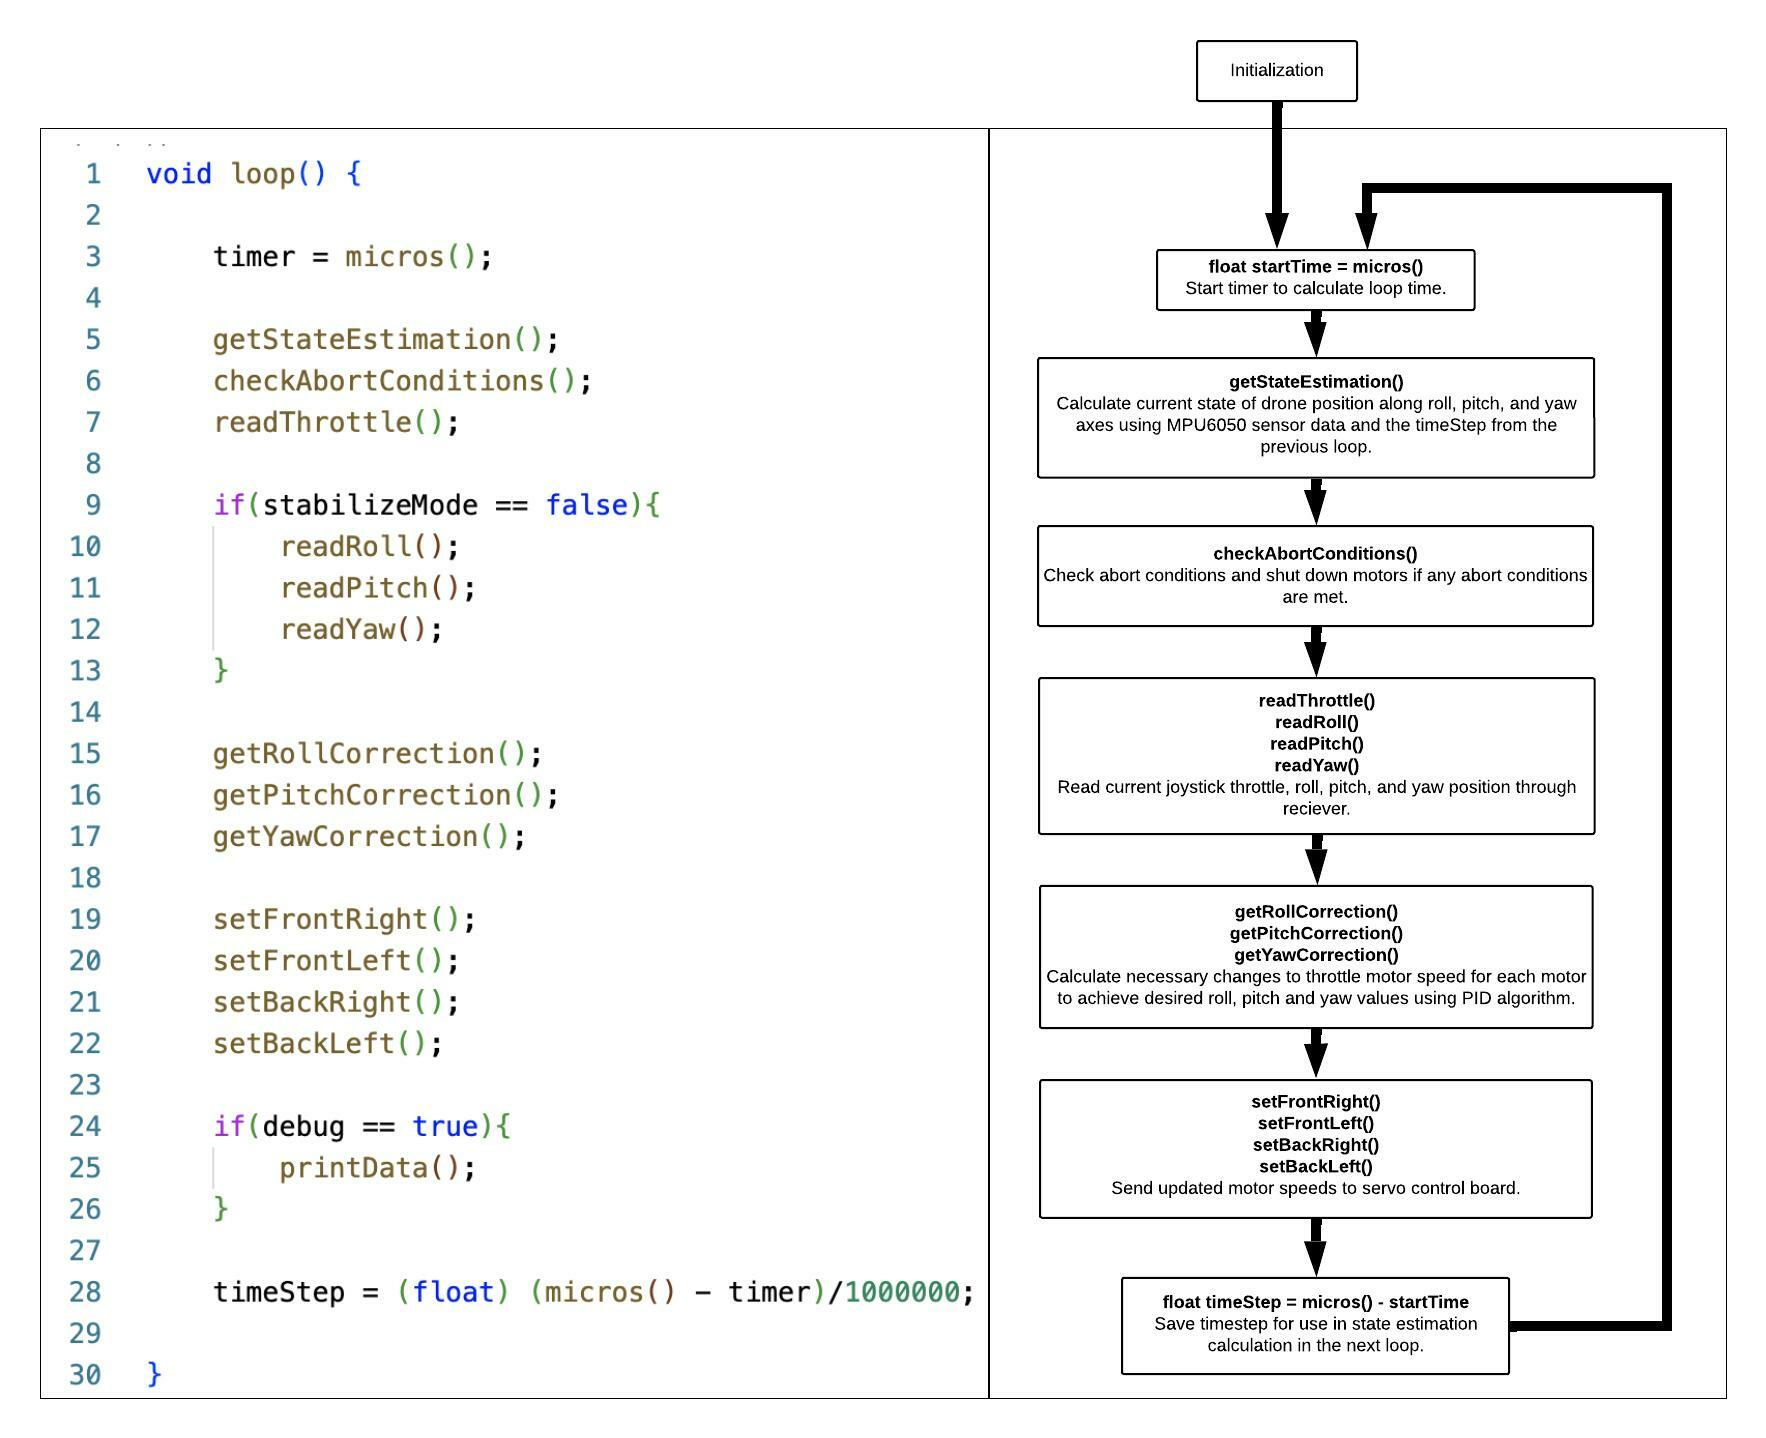
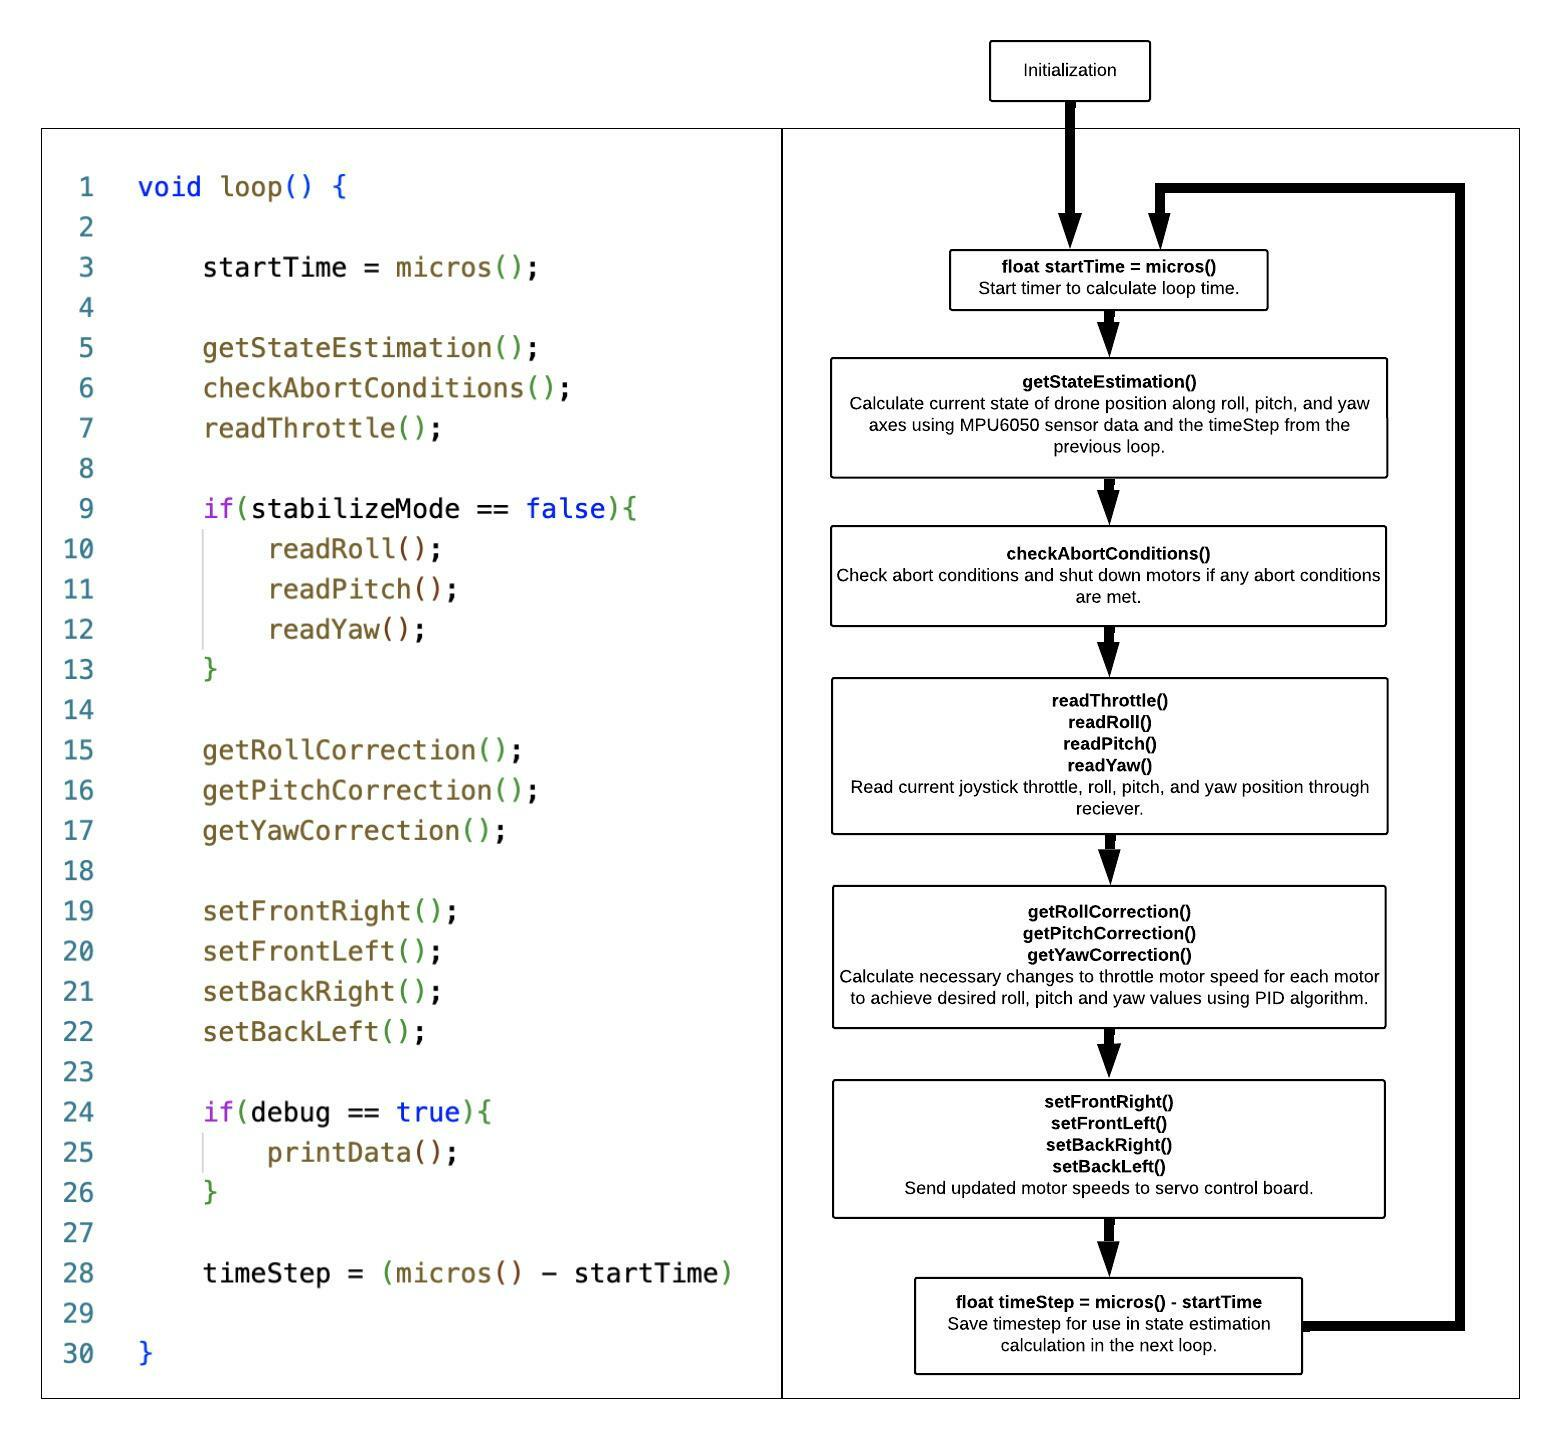
readme

diff --git a/README.md b/README.md
@@ -7,7 +7,7 @@ The Osprey Drone Mark I with Osprey Flight Controller Version 1.0
 </p>
 
 <h5 align="center">
-An Arduino based quadcopter build with personally developed flight control software. 
+An Arduino based quadcopter build with personally developed flight control software
 </h5>
 
 ### Features:
@@ -116,29 +116,15 @@ The Osprey Flight Controller incorporates gyroscope and accelerometer data from 
 <b>An MPU6050 inertial measurement unit.</b>
 </p>
 
-The MPU6050 accelerometer measures linear acceleration along the X, Y, and Z axes. The angular position is calculated from each accelerometer linear acceleration reading using Euler angle based trigonometry. Korneliusz Jarzębski's MPU6050 library was used to calculate the accelerometer and gyroscope based angular position calculations and these calculations were combined using a low pass filter for the accelerometer based state estimation and a high pass filter for the gyroscope based state estimation. 
 
-### Component Timing
-The flight controller relies on several different hardware components as well as software to do its job. It's important to understand the time it takes to complete each part of the loop so that optimization efforts can focus on the biggest bottlenecks.
+The MPU6050 accelerometer measures linear acceleration along the X, Y, and Z axes. The angular position is calculated from each accelerometer linear acceleration reading using Euler angle based trigonometry. Only roll and pitch can be calculated with this method. This calculation relies on the vertical acceleration being -1G and assumes there is no other linear acceleration on the X and Y axes so during flight these calculations are often innacurate but at rest they will recenter any gyroscope drift. Kornelius Jarzębski's MPU6050 library was used to calculate the accelerometer and gyroscope based angular position calculations and these calculations were combined using a low pass filter for the accelerometer based state estimation and a high pass filter for the gyroscope based state estimation. 
 
-The timestep is often kept constant when integrating sensor data with respect to time. I chose to vary the time step to avoid using the delay() function which is a blocking function and slowed the overall loop time too much. The best solution would be to handle integration of the sensor data on a separate microcontroller to allow for a constant timestep without slowing down the entire flight controller. 
+### Flight Controller Timing
+The flight controller relies on several different hardware components as well as software to do its job. It's important to understand the time it takes to complete each part of the loop so that optimization efforts can focus on the biggest bottlenecks. Flight controller speed is crucial for stability. A slower flight controller loop time negatively affects stability because it decreases the accuracy of the state estimation and also does not give the motors as much time to adjust their speed. The default operating frequency for Arduino Uno R3 is 16 MHz. The average timestep (total loop time) of the Osprey Flight Controlller V1.0 is approximately 20Hz in Stabilize Mode. This is unfortunately far too slow to allow for the stability required to film or maneuver. Modern F4 flight controllers allow for incredibly smooth and aggresssive flight with loop times of 32KHz which is three orders of magnitude faster than the Osprey Flight Controller V1.0. 
 
-The default operating frequency for Arduino Uno R3 is 16 MHz. The average timestep (total loop time) of the Osprey Flight Controlller V1.0 is approximately 20Hz in Stabilize Mode. This is unfortunately far too slow to allow for the stability required to film or maneuver. Modern F4 flight controllers have loop times of 32KHz which is three orders of magnitude faster than the Osprey Flight Controller V1.0. 
+The MPU6050 has a maximum sample rate north of 1Hz but in this project the MPU6050 is only sampled once every loop. The timestep is often kept constant when integrating sensor data with respect to time. I chose to vary the time step to avoid using the delay() function which is a blocking function and slowed the overall loop time too much. The best solution would be to handle integration of the sensor data on a separate microcontroller to allow for a constant timestep without slowing down other flight controller tasks. 
 
-A slower flight controller loop time negatively affects stability because it decreases the accuracy of the state estimation and also does not give the motors as much time to adjust their speed. 
-
-the internal clock of the servo control board can be set to operate at a range of refresh rates from ______ to ______
-
-The SimonK ESCs are capabale of a 400Hz refresh rate and the motors are capable of responding to this refresh rate.
-
-How often do reciever pulses come in?
-What is the min and max pulse length and timeout time of the reciever and pulseIn() function?
-
-What is the MPU6050 sampling frequency
-The MPU6050 uses an interrupt 
-The MPU6050 samples onyl once a loop but you want it to sample as fast as possible and just use the current estimate in the control loop as fast as the loop allows. Sample the gyro as fast as the hardware allows and execute the control loop every nth gyro sampling.
-
-https://www.bestonlinedrones.com/should-your-miniquad-have-the-newest-flight-controller/
+The internal clock of the servo control board can be set to operate at a frequency of up to 1526Hz. I set the frequency to 400Hz for communication with the SimonK ESCs. The SimonK ESCs are capabale of a 400Hz refresh rate. The motors are lower end but are still capable of accelerating and decellerating quickly enough.
 
 ### Construction Process
 <p align="center">
